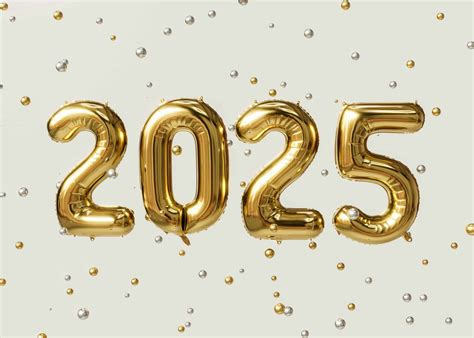
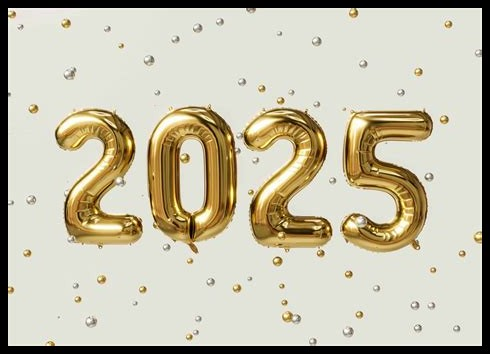
Deploy Gola wala — 2026-05-28T11:33:43.962Z

diff --git a/src/data/site-data.ts b/src/data/site-data.ts
@@ -13,49 +13,49 @@ export const businessData = {
   reviewsCount: "64",
   openingHours: "Show open hours for the week",
   logo: "/images/logo.png",
-  images: ["/images/gmap_1779966440993_0.jpg", "/images/gmap_1779966441322_1.jpg", "/images/gmap_1779966441626_2.jpg", "/images/gmap_1779966442090_3.jpg", "/images/gmap_1779966442356_4.jpg", "/images/gmap_1779966442770_5.jpg", "/images/gmap_1779966443017_6.jpg", "/images/website_0.jpg"],
+  images: ["/images/gmap_1779967934747_0.jpg", "/images/gmap_1779967935111_1.jpg", "/images/gmap_1779967935448_2.jpg", "/images/gmap_1779967935614_3.jpg", "/images/gmap_1779967935834_4.jpg", "/images/gmap_1779967936130_5.jpg", "/images/gmap_1779967936238_6.jpg", "/images/website_0.jpg"],
   description: "",
   socials: {"facebook":"https://www.facebook.com/golawalaofficial","instagram":"https://www.instagram.com/golawala_official/?igsh=Y3Nvc3N0OHA0NGFq","whatsapp":"https://api.whatsapp.com/send/?phone=[phone redacted]&text&type=phone_number&app_absent=0"},
 };
 
 export const aiContent = {
   tagline: "Gola wala's Science City Delights",
-  heroDescription: "Experience the ultimate ice cream destination at Gola wala, located in the heart of Science City, Ahmedabad. Our unique flavors and refreshing treats will leave you wanting more. Visit us today at GF-08, Atlantis one, opp. Hirashs arcade, nr. SAGAR SANGEET COMPLEX!",
-  aboutTitle: "The Story Behind Gola wala",
-  aboutText: "Gola wala is nestled in the vibrant Science City area of Ahmedabad, at GF-08, Atlantis one, where the city's energy meets our passion for ice cream. Our shop is a must-visit destination for anyone looking to beat the heat with a cool treat. With a wide range of flavors to choose from, we cater to all taste buds. Our mission is to provide the highest quality ice cream and exceptional customer service to our valued customers.",
+  heroDescription: "Indulge in the coolest treats at Gola wala, located in the heart of Science City, Ahmedabad. Our ice cream shop offers a wide range of flavors to beat the heat. Visit us today at GF-08, Atlantis one, opp. Hirashs arcade, nr. SAGAR SANGEET COMPLEX, and taste the difference!",
+  aboutTitle: "The Story of Gola wala",
+  aboutText: "Located in the vibrant area of Science City, Ahmedabad, Gola wala has been a favorite among locals and visitors alike. Our address at  GF-08, Atlantis one, opp. Hirashs arcade, nr. SAGAR SANGEET COMPLEX, makes us easily accessible to all. We take pride in serving unique and delicious ice cream flavors that cater to all tastes. Our mission is to provide a refreshing experience to our customers, making us a must-visit destination in the city.",
   services: [
-    { icon: "🍦", title: "Gola wala Special", description: "Indulge in our signature ice cream flavor, made with the finest ingredients and a touch of love." },
-    { icon: "🌴", title: "Summer Coolers", description: "Beat the heat with our refreshing summer coolers, perfect for hot days in Ahmedabad." },
-    { icon: "👥", title: "Party Packs", description: "Make your party a success with our customizable party packs, filled with a variety of ice cream flavors." },
-    { icon: "🎂", title: "Birthday Treats", description: "Celebrate your special day with our delicious birthday treats, designed to make your day even sweeter." },
-    { icon: "👫", title: "Couple's Delight", description: "Enjoy a romantic treat with your loved one, featuring our unique couple's ice cream flavors." },
-    { icon: "🏙️", title: "Science City Specials", description: "Experience the flavors of Science City with our special ice cream flavors, inspired by the city's vibrant culture." }
+    { icon: "🍦", title: "Gola wala Special", description: "Our signature ice cream flavor, made with the finest ingredients and a touch of love" },
+    { icon: "🌮", title: "Falooda", description: "A classic Indian dessert, crafted with creamy ice cream, vermicelli, and a hint of cardamom" },
+    { icon: "🍦", title: "Kulfi", description: "Traditional Indian ice cream, made with milk, cream, and a blend of spices, served in a variety of flavors" },
+    { icon: "🥤", title: "Milkshakes", description: "Thick, creamy, and indulgent, our milkshakes are the perfect treat to satisfy your cravings" },
+    { icon: "🍭", title: "Sundaes", description: "A decadent combination of ice cream, toppings, and sauces, creating a delightful treat for your taste buds" },
+    { icon: "🎂", title: "Ice Cream Cakes", description: "Customizable cakes, made with our signature ice cream, perfect for special occasions and celebrations" }
   ],
   whyChooseUs: [
-    { icon: "💯", title: "Quality Guarantee", description: "We use only the finest ingredients to ensure our ice cream is of the highest quality." },
-    { icon: "👨💼", title: "Exceptional Service", description: "Our friendly staff are dedicated to providing exceptional customer service, making your visit a memorable one." },
-    { icon: "🌟", title: "Unique Flavors", description: "Our ice cream flavors are carefully crafted to provide a unique and delicious experience for our customers." },
-    { icon: "👍", title: "Locally Loved", description: "We are proud to be a part of the Science City community, and our customers love us for our commitment to quality and service." }
+    { icon: "👍", title: "Unique Flavors", description: "We offer a wide range of unique and delicious flavors, crafted with love and care to satisfy your taste buds" },
+    { icon: "🏙️", title: "Prime Location", description: "Located in the heart of Science City, Ahmedabad, we are easily accessible to all, making us a perfect destination for a quick treat or a leisurely outing" },
+    { icon: "👫", title: "Friendly Service", description: "Our staff is dedicated to providing exceptional customer service, ensuring that you have a wonderful experience at Gola wala" },
+    { icon: "👌", title: "Quality Ingredients", description: "We use only the finest ingredients, sourced from trusted suppliers, to craft our delicious ice cream flavors" }
   ],
   testimonials: [
-    { name: "Palak Jain", role: "Regular Customer", text: "I've been visiting Gola wala for months now, and their ice cream never fails to impress. The Gola wala Special is my favorite!", rating: 5 },
-    { name: "Pankaj Mehta", role: "Party Organizer", text: "Gola wala's party packs were a hit at my friend's birthday party. The variety of flavors and excellent service made the event a success.", rating: 5 },
-    { name: "Prachi Shah", role: "Food Blogger", text: "As a food blogger, I've tried many ice cream shops in Ahmedabad, but Gola wala stands out for its unique flavors and exceptional service. The Summer Coolers are a must-try!", rating: 5 }
+    { name: "Jaya Mehta", role: "Local Resident", text: "I've been a regular at Gola wala for years, and their ice cream never fails to impress. The Gola wala Special is my favorite!", rating: 5 },
+    { name: "Jatin Shah", role: "Tourist", text: "I stumbled upon Gola wala while exploring Science City, and I'm so glad I did. Their Falooda is a must-try!", rating: 5 },
+    { name: "Jaspreet Kaur", role: "Food Blogger", text: "Gola wala's unique flavors and friendly service make it a standout in the city. I highly recommend their Milkshakes!", rating: 5 }
   ],
-  portfolio: { categories: [{ name: "Ice Cream Flavors", items: [{ title: "Gola wala Special", description: "Our signature ice cream flavor", icon: "🍦" }, { title: "Mango Madness", description: "A sweet and tangy mango ice cream flavor", icon: "🥭" }, { title: "Chocolate Chip", description: "A classic chocolate ice cream flavor with a twist", icon: "🍫" }] },
-    { name: "Cakes and Desserts", items: [{ title: "Ice Cream Cake", description: "A customizable ice cream cake for special occasions", icon: "🎂" }, { title: "Brownie Sundae", description: "A rich and decadent brownie sundae with ice cream", icon: "🍪" }, { title: "Fruit Salad", description: "A refreshing fruit salad with a scoop of ice cream", icon: "🍓" }] },
-    { name: "Special Offers", items: [{ title: "Happy Hour", description: "Discounted ice cream prices during happy hour", icon: "🕰️" }, { title: "Loyalty Program", description: "Earn points for every purchase and redeem rewards", icon: "📈" }, { title: "Gift Vouchers", description: "Purchase gift vouchers for friends and family", icon: "🎁" }] },
-    { name: "Events and Parties", items: [{ title: "Birthday Parties", description: "Host your child's birthday party at Gola wala", icon: "🎂" }, { title: "Corporate Events", description: "Customize ice cream packages for your corporate event", icon: "📊" }, { title: "Wedding Functions", description: "Make your wedding function a sweet success with Gola wala", icon: "💕" }] }] },
-  faq: { items: [{ question: "What are the business hours of Gola wala?", answer: "Gola wala is open from 11am to 11pm, 7 days a week." },
-    { question: "Do you offer customized ice cream flavors for parties?", answer: "Yes, we offer customized ice cream flavors for parties and events. Please contact us for more information." },
-    { question: "Can I purchase gift vouchers at Gola wala?", answer: "Yes, you can purchase gift vouchers at Gola wala. They are available in various denominations and can be redeemed at our shop." },
-    { question: "Do you have a loyalty program?", answer: "Yes, we have a loyalty program that rewards our regular customers with points for every purchase. These points can be redeemed for free ice cream and other rewards." },
-    { question: "Can I place an order for delivery or takeout?", answer: "Yes, we offer delivery and takeout services. Please contact us for more information and to place your order." },
-    { question: "How can I get in touch with Gola wala?", answer: "You can contact us through our website, email, or phone. We are always happy to hear from our customers and help with any queries." }] },
-  ctaTitle: "Get Your Favorite Ice Cream Now",
-  ctaDescription: "Visit us today and indulge in the best ice cream in Science City. Our friendly staff are waiting to serve you!",
-  ctaButtonText: "Order Now",
-  metaDescription: "Gola wala: Science City's favorite ice cream destination",
+  portfolio: { categories: [{ name: "Ice Cream Flavors", items: [{ title: "Gola wala Special", description: "Our signature ice cream flavor, made with the finest ingredients", icon: "🍦" }, { title: "Kulfi", description: "Traditional Indian ice cream, made with milk, cream, and a blend of spices", icon: "🍦" }, { title: "Falooda", description: "A classic Indian dessert, crafted with creamy ice cream, vermicelli, and a hint of cardamom", icon: "🌮" }] },
+    { name: "Special Treats", items: [{ title: "Milkshakes", description: "Thick, creamy, and indulgent, our milkshakes are the perfect treat", icon: "🥤" }, { title: "Sundaes", description: "A decadent combination of ice cream, toppings, and sauces", icon: "🍭" }, { title: "Ice Cream Cakes", description: "Customizable cakes, made with our signature ice cream", icon: "🎂" }] },
+    { name: "Seasonal Offers", items: [{ title: "Summer Specials", description: "Refreshing flavors and treats to beat the heat", icon: "☀️" }, { title: "Winter Delights", description: "Warm and comforting flavors to enjoy during the winter months", icon: "❄️" }, { title: "Festive Offers", description: "Special flavors and discounts during festive seasons", icon: "🎉" }] },
+    { name: "Customer Favorites", items: [{ title: "Gola wala Special", description: "Our signature ice cream flavor, a customer favorite", icon: "🍦" }, { title: "Falooda", description: "A classic Indian dessert, loved by our customers", icon: "🌮" }, { title: "Kulfi", description: "Traditional Indian ice cream, a favorite among our patrons", icon: "🍦" }] }] },
+  faq: { items: [{ question: "What are the business hours of Gola wala?", answer: "We are open from 11am to 11pm, 7 days a week. Please note that hours may vary during festive seasons or special events." },
+    { question: "Do you offer customization options for ice cream cakes?", answer: "Yes, we offer customization options for ice cream cakes. Please contact us at least 24 hours in advance to place your order." },
+    { question: "Can I purchase Gola wala merchandise online?", answer: "Currently, our merchandise is only available for purchase in-store. However, we are working on making it available online soon." },
+    { question: "How do I get to Gola wala from the nearest metro station?", answer: "The nearest metro station is Science City. From there, take a short taxi ride or walk for about 10-15 minutes to reach our location at GF-08, Atlantis one, opp. Hirashs arcade, nr. SAGAR SANGEET COMPLEX." },
+    { question: "Do you offer any discounts or promotions?", answer: "Yes, we offer various discounts and promotions throughout the year. Follow us on social media or sign up for our newsletter to stay updated on our latest offers." },
+    { question: "Can I book a party or event at Gola wala?", answer: "Yes, we can accommodate parties and events. Please contact us at least 7 days in advance to discuss details and availability." }] },
+  ctaTitle: "Indulge in the Coolest Treats",
+  ctaDescription: "Visit us today and experience the unique flavors of Gola wala. We can't wait to serve you!",
+  ctaButtonText: "Get Your Treat",
+  metaDescription: "Gola wala: Ahmedabad's favorite ice cream shop",
 };
 
 export const siteConfig = {

diff --git a/src/components/sections/TestimonialsSection.tsx b/src/components/sections/TestimonialsSection.tsx
@@ -3,7 +3,7 @@
 import { motion, useInView } from "framer-motion";
 import { useRef } from "react";
 import { Star, Quote } from "lucide-react";
-import { aiContent } from "@/data/site-data";
+import { aiContent, businessData } from "@/data/site-data";
 
 export function TestimonialsSection() {
   const ref = useRef(null);
@@ -11,6 +11,8 @@ export function TestimonialsSection() {
 
   const testimonials = aiContent.testimonials || [];
   if (testimonials.length === 0) return null;
+
+  const isGoogleReviews = testimonials[0]?.source === "google";
 
   return (
     <section id="testimonials" className="section-padding bg-card/30" ref={ref}>
@@ -22,15 +24,40 @@ export function TestimonialsSection() {
           className="text-center mb-16"
         >
           <div className="inline-flex items-center gap-2 px-3 py-1.5 rounded-full bg-primary/10 border border-primary/20 mb-4">
-            <span className="w-2 h-2 rounded-full bg-primary animate-pulse" />
-            <span className="text-xs font-medium text-primary uppercase tracking-wider">Testimonials</span>
+            {isGoogleReviews ? (
+              <>
+                <svg className="w-4 h-4" viewBox="0 0 24 24" fill="currentColor">
+                  <path d="M22.56 12.25c0-.78-.07-1.53-.2-2.25H12v4.26h5.92c-.26 1.37-1.04 2.53-2.21 3.31v2.77h3.57c2.08-1.92 3.28-4.74 3.28-8.09z" fill="#4285F4"/>
+                  <path d="M12 23c2.97 0 5.46-.98 7.28-2.66l-3.57-2.77c-.98.66-2.23 1.06-3.71 1.06-2.86 0-5.29-1.93-6.16-4.53H2.18v2.84C3.99 20.53 7.7 23 12 23z" fill="#34A853"/>
+                  <path d="M5.84 14.09c-.22-.66-.35-1.36-.35-2.09s.13-1.43.35-2.09V7.07H2.18C1.43 8.55 1 10.22 1 12s.43 3.45 1.18 4.93l2.85-2.22.81-.62z" fill="#FBBC05"/>
+                  <path d="M12 5.38c1.62 0 3.06.56 4.21 1.64l3.15-3.15C17.45 2.09 14.97 1 12 1 7.7 1 3.99 3.47 2.18 7.07l3.66 2.84c.87-2.6 3.3-4.53 6.16-4.53z" fill="#EA4335"/>
+                </svg>
+                <span className="text-xs font-medium text-primary uppercase tracking-wider">Google Reviews</span>
+              </>
+            ) : (
+              <>
+                <span className="w-2 h-2 rounded-full bg-primary animate-pulse" />
+                <span className="text-xs font-medium text-primary uppercase tracking-wider">Testimonials</span>
+              </>
+            )}
           </div>
           <h2 className="text-3xl md:text-4xl lg:text-5xl font-heading font-bold">
-            What Our Clients Say
+            {isGoogleReviews ? "What People Say on Google" : "What Our Clients Say"}
           </h2>
+          {isGoogleReviews && businessData.rating && (
+            <div className="mt-4 inline-flex items-center gap-2">
+              <div className="flex gap-0.5">
+                {[...Array(5)].map((_, i) => (
+                  <Star key={i} size={18} className={i < Math.round(parseFloat(businessData.rating)) ? "text-yellow-500 fill-yellow-500" : "text-foreground/20"} />
+                ))}
+              </div>
+              <span className="font-bold">{businessData.rating}</span>
+              <span className="text-foreground/50 text-sm">({businessData.reviewsCount} reviews)</span>
+            </div>
+          )}
         </motion.div>
 
-        {/* Testimonials Grid */}
+        {/* Reviews Grid */}
         <div className="grid md:grid-cols-2 lg:grid-cols-3 gap-6">
           {testimonials.map((testimonial: any, i: number) => (
             <motion.div
@@ -47,7 +74,7 @@ export function TestimonialsSection() {
 
               {/* Stars */}
               <div className="flex gap-1 mb-4">
-                {[...Array(testimonial.rating || 5)].map((_, j) => (
+                {[...Array(testimonial.rating || 5)].map((_: any, j: number) => (
                   <Star key={j} size={14} className="text-yellow-500 fill-yellow-500" />
                 ))}
               </div>
@@ -66,7 +93,14 @@ export function TestimonialsSection() {
                 </div>
                 <div>
                   <p className="font-semibold text-sm">{testimonial.name}</p>
-                  <p className="text-xs text-foreground/50">{testimonial.role}</p>
+                  <p className="text-xs text-foreground/50">
+                    {testimonial.source === "google" ? (
+                      <span className="flex items-center gap-1">
+                        <svg className="w-3 h-3 inline" viewBox="0 0 24 24"><path d="M22.56 12.25c0-.78-.07-1.53-.2-2.25H12v4.26h5.92c-.26 1.37-1.04 2.53-2.21 3.31v2.77h3.57c2.08-1.92 3.28-4.74 3.28-8.09z" fill="#4285F4"/><path d="M12 23c2.97 0 5.46-.98 7.28-2.66l-3.57-2.77c-.98.66-2.23 1.06-3.71 1.06-2.86 0-5.29-1.93-6.16-4.53H2.18v2.84C3.99 20.53 7.7 23 12 23z" fill="#34A853"/></svg>
+                        {testimonial.role}
+                      </span>
+                    ) : testimonial.role}
+                  </p>
                 </div>
               </div>
             </motion.div>